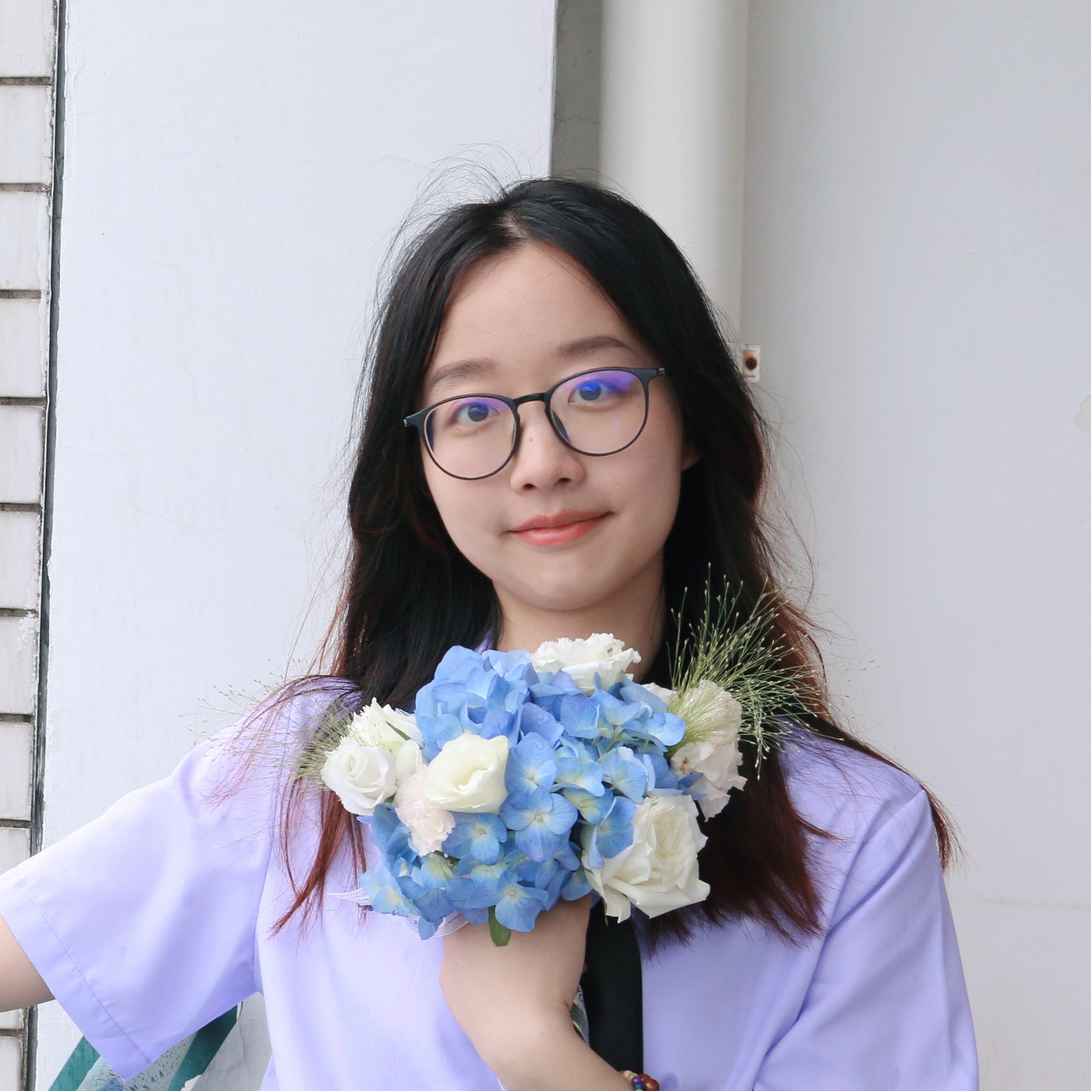
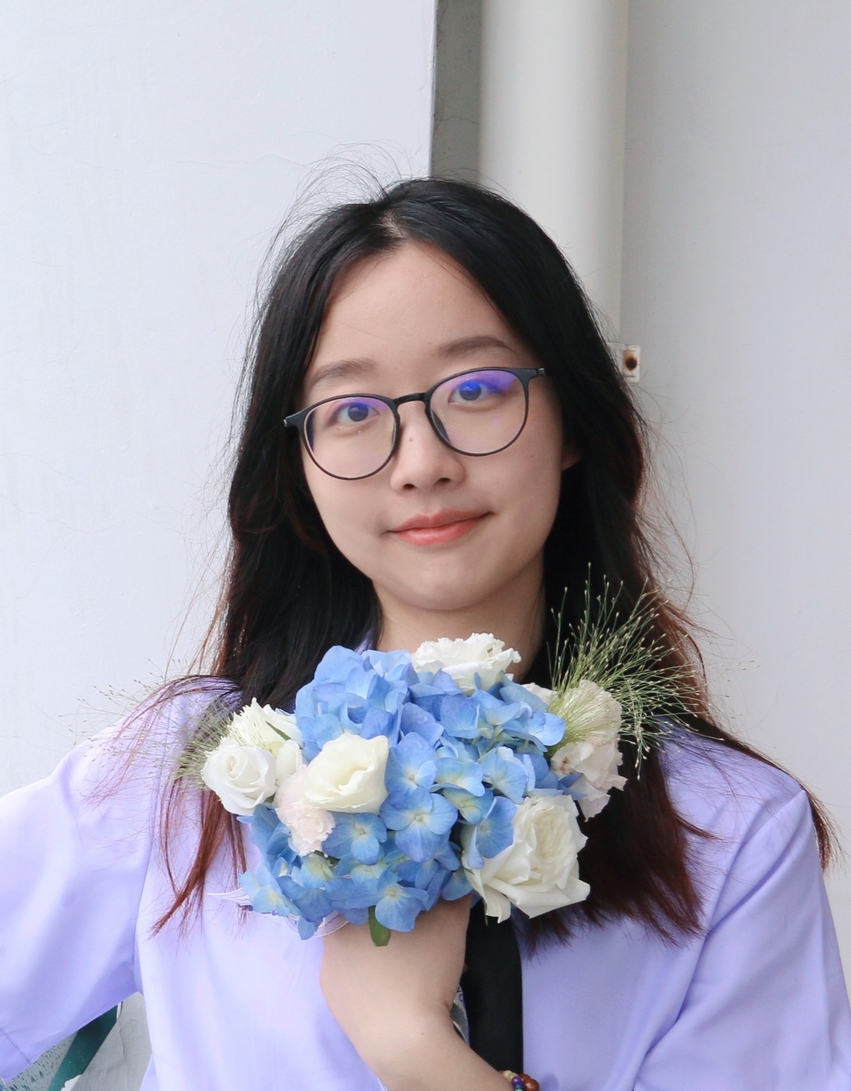
teams page

diff --git a/people.html b/people.html
@@ -210,12 +210,12 @@
 				</div>
 
 				<div class="col-md-3" style="text-align: center;">
-					<img src="images/people/kexin-wang.jpg" alt="Kexin Wang" class="img-responsive img-rounded">
+					<img src="images/people/dingning_cao.jpg" alt="Dingning Cao" class="img-responsive img-rounded">
 					<h3 class="medium-headline">
-						<a href="https://kexinwangade.com/">Kexin Wang</a>
+						Dingning Cao
 					</h3>
 					<p style="text-align:center; margin-top:0px">
-						Visiting Student
+						UROP
 					</p>
 				</div>
 
@@ -248,17 +248,7 @@
 			<div class="row" style="padding-bottom:0px; margin-bottom:0px">
 
 				<div class="col-md-3" style="text-align: center;">
-					<img src="images/people/yujia-liu.jpg" alt="Yujia Liu" class="img-responsive img-rounded">
-					<h3 class="medium-headline">
-						<a href="https://yujia-l.github.io/">Yujia Liu</a>
-					</h3>
-					<p style="text-align:center; margin-top:0px">
-						Visiting Student
-					</p>
-				</div>
-
-				<div class="col-md-3" style="text-align: center;">
-					<img src="images/people/sukanth-kalivarathan.png" alt="Yujia Liu" class="img-responsive img-rounded">
+					<img src="images/people/sukanth-kalivarathan.png" alt="Sukanth Kalivarathan" class="img-responsive img-rounded">
 					<h3 class="medium-headline">
 						<a href="http://www.sukanthoriginal.com/">Sukanth Kalivarathan</a>
 					</h3>
@@ -2858,6 +2848,29 @@
 					<img src="images/people/emily-guan.jpg" alt="Emily Guan" class="img-alumni img-rounded">
 					<h3 class="medium-headline">
 						<a href="https://www.emilyguan.com/" target="_blank">Emily Guan</a>
+					</h3>
+					<p style="text-align:center; margin-top:0px">
+						Visiting Student
+					</p>
+				</div>
+
+				<div class="col-md-2" style="text-align: center;">
+					<img src="images/people/kexin-wang.jpg" alt="Kexin Wang" class="img-alumni img-rounded">
+					<h3 class="medium-headline">
+						<a href="https://kexinwangade.com/">Kexin Wang</a>
+					</h3>
+					<p style="text-align:center; margin-top:0px">
+						Visiting Student
+					</p>
+				</div>
+
+			</div>
+
+			<div class="row" style="padding-bottom:0px;margin-bottom:0px">
+				<div class="col-md-2" style="text-align: center;">
+					<img src="images/people/yujia-liu.jpg" alt="Yujia Liu" class="img-alumni img-rounded">
+					<h3 class="medium-headline">
+						<a href="https://yujia-l.github.io/">Yujia Liu</a>
 					</h3>
 					<p style="text-align:center; margin-top:0px">
 						Visiting Student
